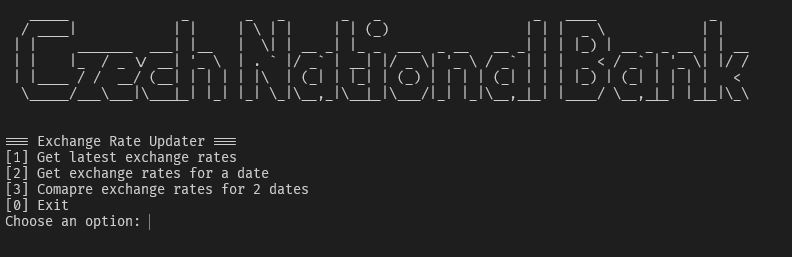
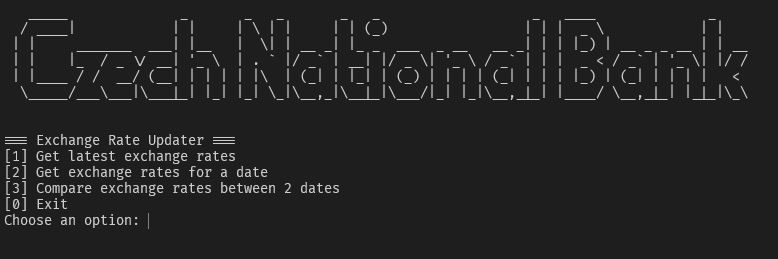
fix: typo on menu option 3 and update readme

diff --git a/jobs/Backend/Task/ExchangeRateUpdater/Application/Menu/MenuHandler.cs b/jobs/Backend/Task/ExchangeRateUpdater/Application/Menu/MenuHandler.cs
@@ -40,7 +40,7 @@ namespace ExchangeRateUpdater.Application.Menu
                     Console.WriteLine("=== Exchange Rate Updater ===");
                     Console.WriteLine("[1] Get latest exchange rates");
                     Console.WriteLine("[2] Get exchange rates for a date");
-                    Console.WriteLine("[3] Comapre exchange rates for 2 dates");
+                    Console.WriteLine("[3] Compare exchange rates between 2 dates");
                     Console.WriteLine("[0] Exit");
                     Console.Write("Choose an option: ");
 

diff --git a/jobs/Backend/Task/README.md b/jobs/Backend/Task/README.md
@@ -26,14 +26,14 @@ For logging I used `ILogger` and `System.Console` interchangeably, with separati
 - `System.Console` for user relevant logs and user interaction.
 #### MenuHandler
 I have added a console menu with a simple lifecycle loop for the user interaction layer. This way I separate the business logic from the user UI. It has these available programs:
-- `[1] Latest rates`
+- `[1] Get latest exchange rates`
 	- Displays the latest exchange rates that match the supported currencies
 	- Uses `ExchangeRateProvider.GetExchangeRates`
-- `[2] Rates for a specific date`
+- `[2] Get exchange rates for a date`
 	- Asks the user to input a date until its valid
 	- Displays exchange rates for the day that match the supported currencies
 	- Uses `ExchangeRateProvider.GetExchangeRatesFromDay`
-- `[3] Compare rates between two dates`
+- `[3] Compare exchange rates between 2 dates`
 	- Asks the user to input 2 dates one by one until they are valid
 	- Displays the calculated difference between the rates of the 2 dates
 	- Uses `ExchangeRateProvider.CompareExchangeRatesBetweenDates`
